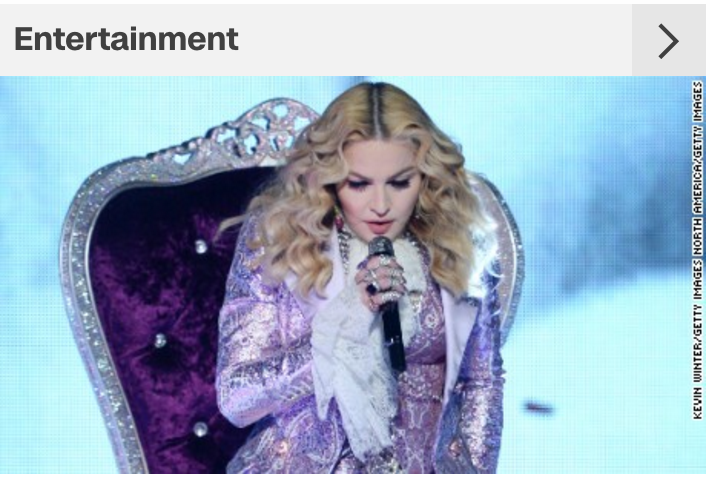
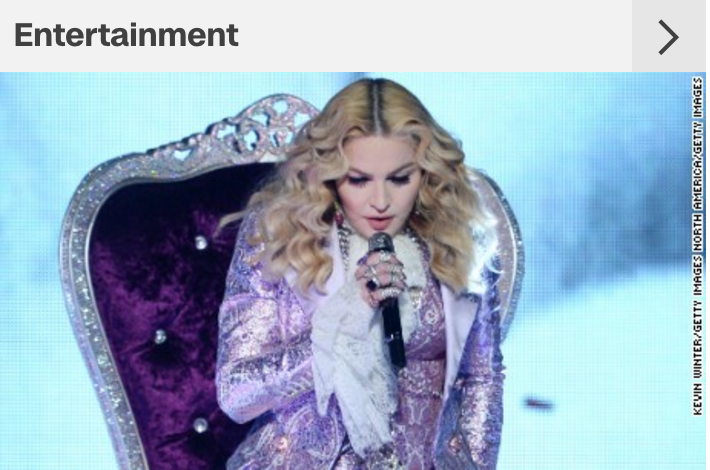
changed images and updated html

diff --git a/index.html b/index.html
@@ -7,13 +7,10 @@
   <body>
     <div id="container">
 
-    <h1>CNN.com<h1>
-
       <div class="columns">
-          <!-- <h2>Tech</h2> -->
           <img src="images/tech.png" alt="google goggles">
           <ul>
-            <li><span>Google's plan to take over the world</span></li>
+            <li><span>Meet China's tech behemoths</span></li>
             <li>Apple, tech giants lead cash hoard</li>
             <li>Tiny home in NYC built in 3 days</li>
             <li>Meet China's tech behemoths</li>
@@ -22,8 +19,7 @@
         </div>
 
         <div class="columns">
-          <!-- <h2>Entertainment</h2> -->
-          <img src="images/entertainment2.png" alt="madonna">
+          <img src="images/entertainment.png" alt="madonna">
           <ul>
             <li><span>About that Billboard Prince Tribute</span></li>
             <li>Alan Young from Mr Ed, dies</li>
@@ -34,7 +30,6 @@
         </div>
 
         <div class="columns">
-          <!-- <h2>Sports</h2> -->
           <img src="images/sports.png" alt="cubbies">
           <ul>
             <li><span>Cubs' Band of Bros off to Best Start</span></li>

diff --git a/style.css b/style.css
@@ -49,12 +49,14 @@ table {
 /*end of default resets*/
 /*beginning of CSS*/
 #container {
-  width: 100%;
+  width: 90%;
+  margin: auto;
   font-family: Helvetica;
 }
 .columns {
   width: 30.3%;
   margin-left: 1em;
+  padding-top: 5em;
   float: left;
 }
 .columns img {
